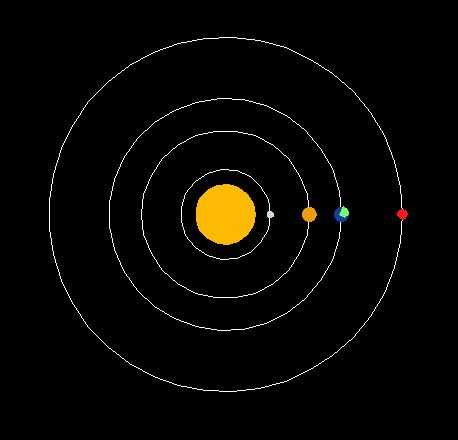
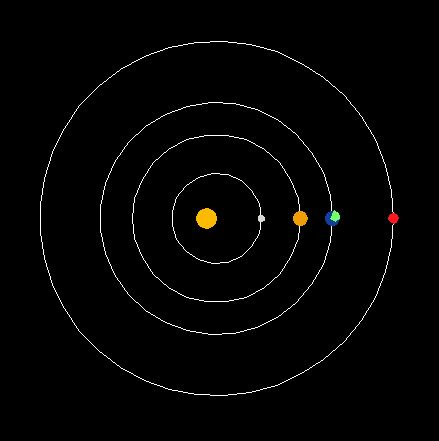
Cleaned code for challenge 2 folder

diff --git a/Challenges/Challenge 2/Challenge_2_Drawing_Planets_Functions.py b/Challenges/Challenge 2/Challenge_2_Drawing_Planets_Functions.py
@@ -5,7 +5,7 @@ def sun(x,y,pen):
     # setting starting position
     pen.hideturtle()
     pen.penup()
-    pen.setpos(x+30,y)
+    pen.setpos(x+10,y)
     pen.left(90)
     pen.pendown()
     # setting pen colors
@@ -13,7 +13,7 @@ def sun(x,y,pen):
     pen.fillcolor("#fcba03")
     # drawing sun
     pen.begin_fill()
-    pen.circle(30)
+    pen.circle(10)
     pen.end_fill()
 
 def mercury(x,y,pen):
@@ -201,12 +201,3 @@ saturnPen = turtle.Turtle()
 uranusPen = turtle.Turtle()
 neptunePen = turtle.Turtle()
 
-##sun(0,0,sunPen)
-##mercury(50,50,mercuryPen)
-##venus(70,70,venusPen)
-##earth(90,90,earthPen)
-##mars(110,110,marsPen)
-##jupiter(140,140,jupiterPen)
-##saturn(180,180,saturnPen)
-##uranus(210,210,uranusPen)
-##neptune(230,230,neptunePen)

diff --git a/Challenges/Challenge 2/Challenge 2 - Plot Inner Planet Orbits.py b/Challenges/Challenge 2/Challenge 2 - Plot Inner Planet Orbits.py
@@ -15,7 +15,7 @@ pens = [sunPen,mercuryPen,venusPen,earthPen,marsPen]
 
 turtle.bgcolor("#000000") # color screen black
 
-functions[0](0,0,pens[0]) # draw sun
+functions[0](-10,0,pens[0]) # draw sun
 
 for pen in pens:
     ## set all pen colors as white
